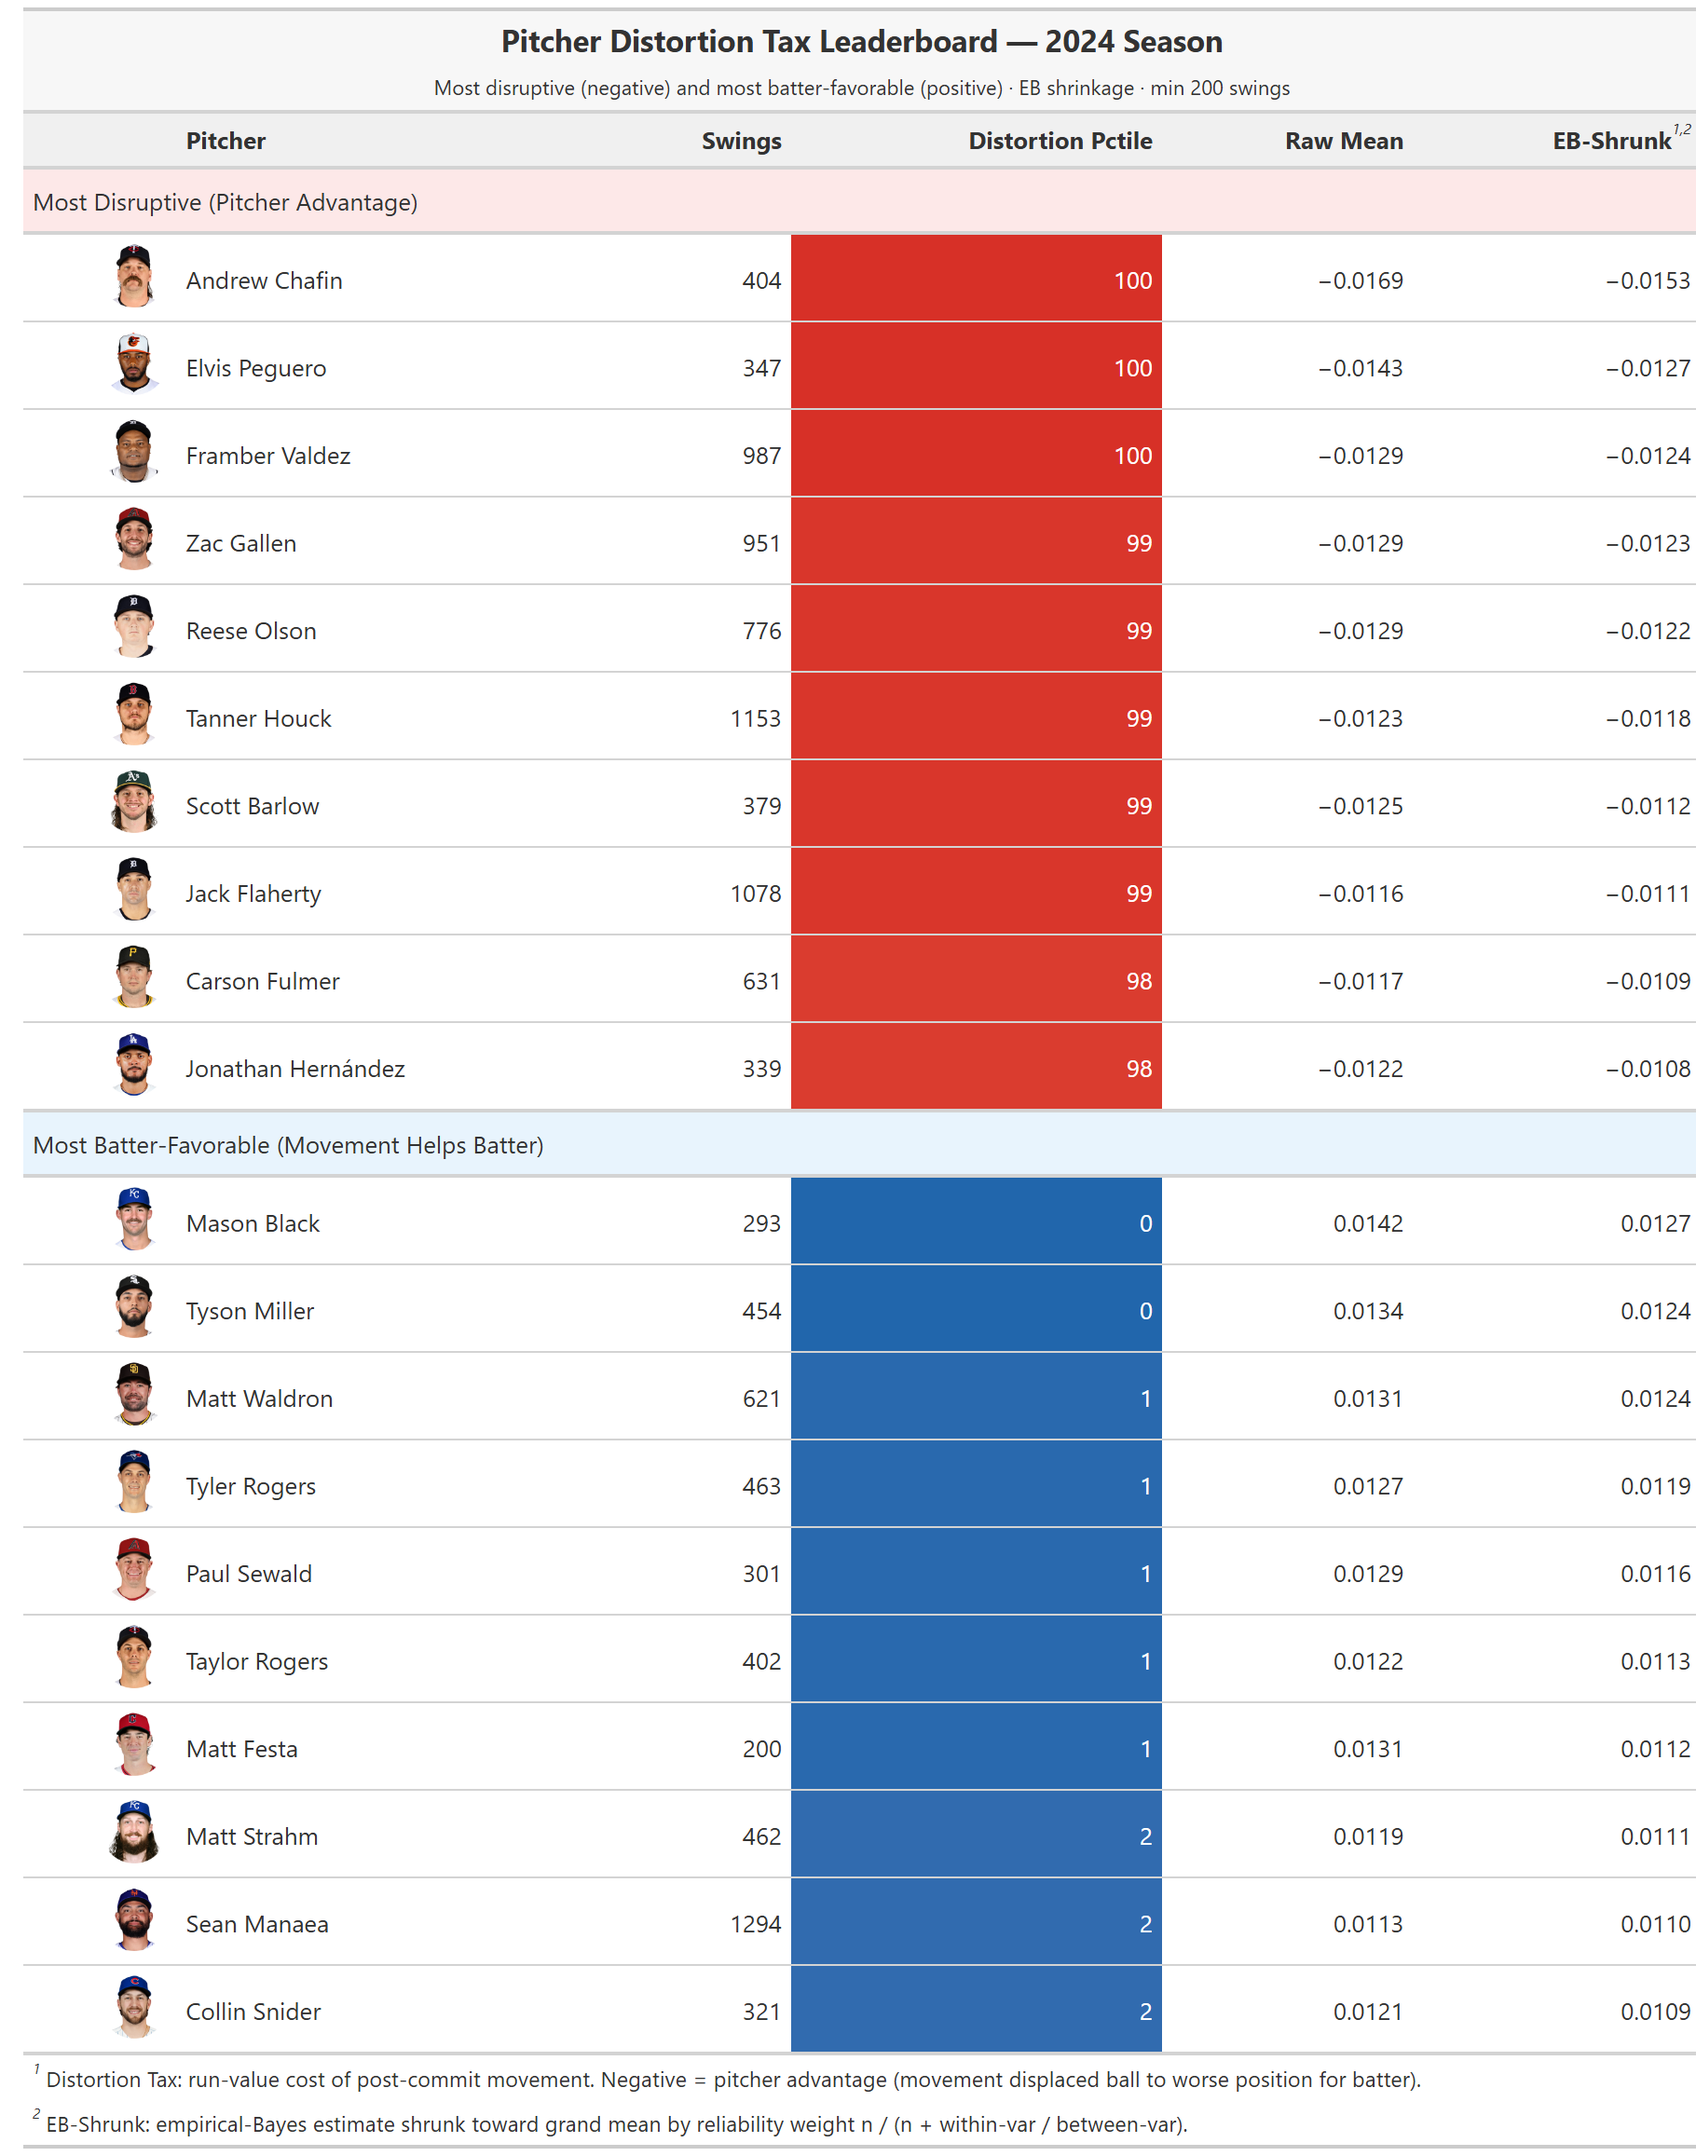
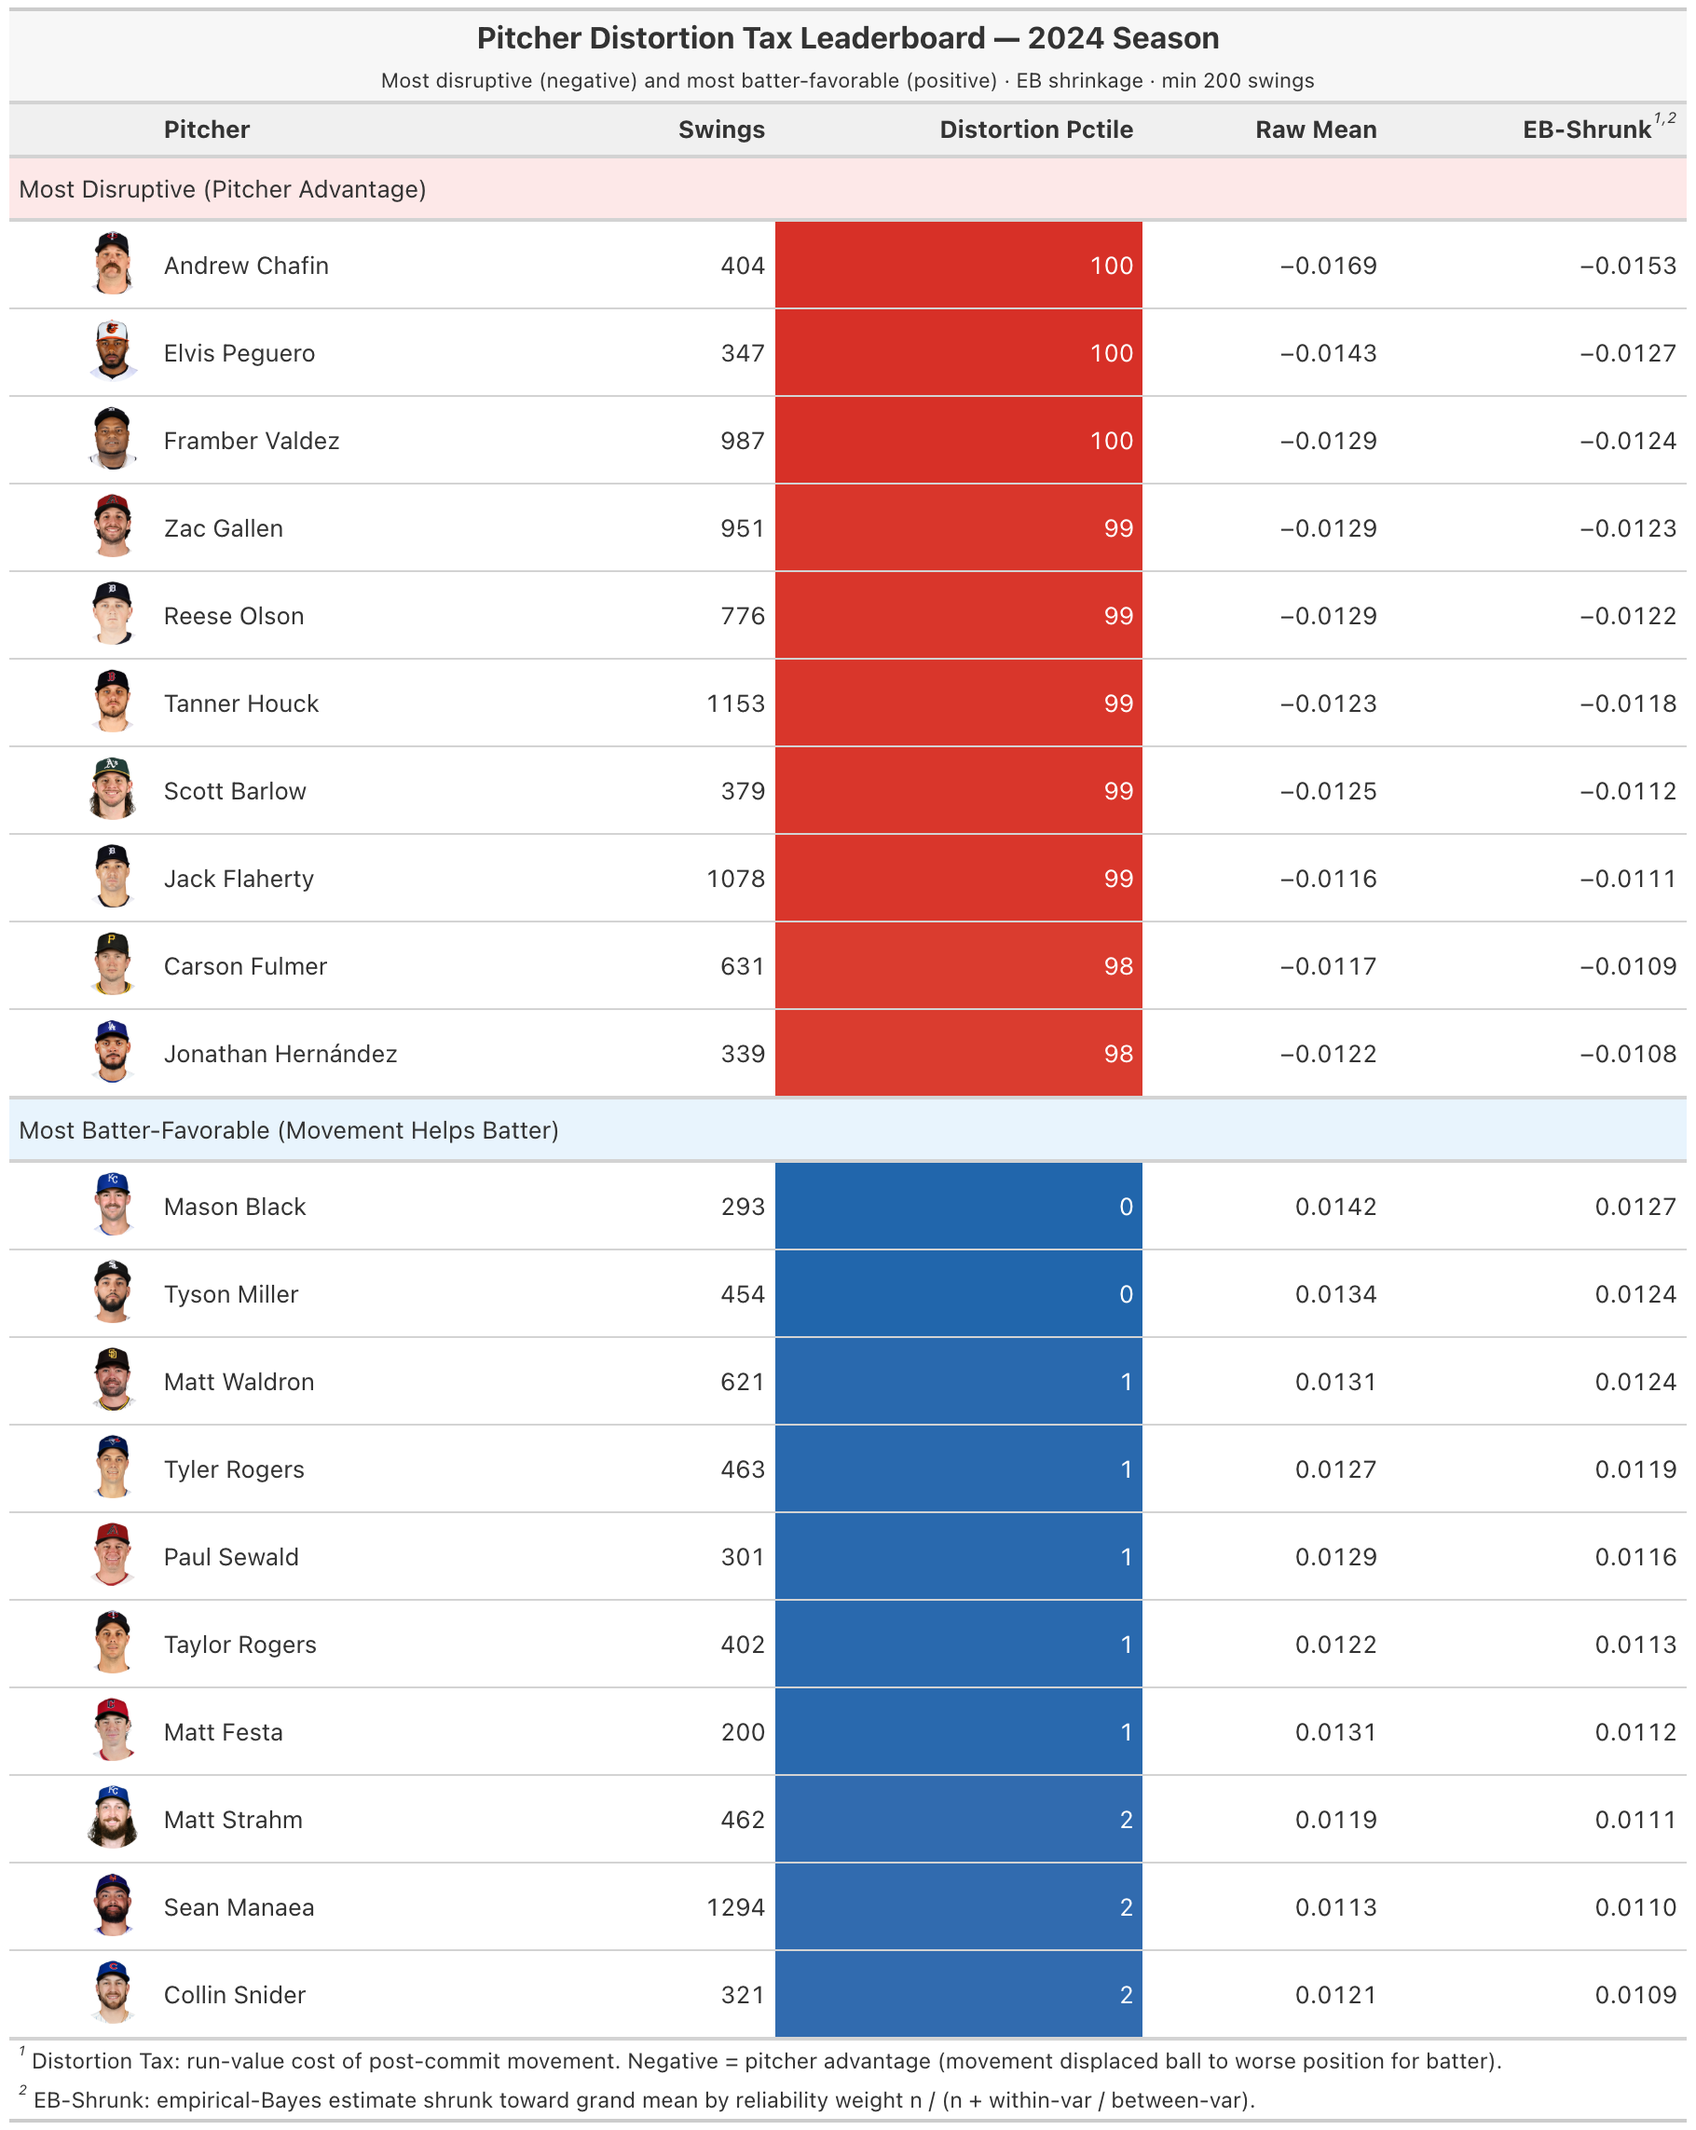
fix Mac paths in kinematic_diagram, switch generate_results to duckdb, update figures
- kinematic_diagram.py: Windows backslash → forward slash for screenshot paths
- generate_results.py: replace pd.read_parquet with column-selective duckdb queries
- refresh leaderboard and reliability figures + add reliability.csv

diff --git a/results_scripts/generate_results.py b/results_scripts/generate_results.py
@@ -25,6 +25,7 @@ Figure keys
 import sys
 from pathlib import Path
 
+import duckdb
 import joblib
 import numpy as np
 import pandas as pd
@@ -69,9 +70,28 @@ def _load(key, fn):
     return _cache[key]
 
 
-def xrv():  return _load("xrv",  lambda: pd.read_parquet("results/xrv_causal.parquet"))
-def pc():   return _load("pc",   lambda: pd.read_parquet("data/swings_precommit.parquet"))
-def sxrv(): return _load("sxrv", lambda: pd.read_parquet("results/swing_xrv.parquet"))
+_PC_COLS = ", ".join([
+    "game_pk", "at_bat_number", "pitch_number", "game_year",
+    DEV_X, DEV_Z, "ball_bat_miss", "is_whiff",
+    "is_contact", "is_bip", "is_single", "is_double", "is_triple", "is_home_run",
+    "is_swing", "bat_speed", "count_group", "balls", "strikes", "vert_attack_angle",
+    "pitcher_full_name", "pitch_type",
+    f"pc{COMMIT_MS}_R_x", f"pc{COMMIT_MS}_R_y", f"pc{COMMIT_MS}_R_z",
+    f"pc{COMMIT_MS}_V_x", f"pc{COMMIT_MS}_V_y", f"pc{COMMIT_MS}_V_z",
+    f"pc{COMMIT_MS}_A_x", f"pc{COMMIT_MS}_A_y", f"pc{COMMIT_MS}_A_z",
+    f"pc{COMMIT_MS}_t_plate",
+])
+
+_SXRV_COLS = ", ".join([
+    "game_pk", "at_bat_number", "pitch_number", "pitcher_id", "pitcher_full_name",
+    "pfx_x", "pfx_z", "release_speed", "release_extension", "arm_angle",
+    "ivb_transverse", "hb_transverse", "pitcher_throws", "stuff_grade", "xrv_vs_count", "xrv",
+])
+
+
+def xrv():  return _load("xrv",  lambda: duckdb.sql("SELECT * FROM read_parquet('results/xrv_causal.parquet')").df())
+def pc():   return _load("pc",   lambda: duckdb.sql(f"SELECT {_PC_COLS} FROM read_parquet('data/swings_precommit.parquet')").df())
+def sxrv(): return _load("sxrv", lambda: duckdb.sql(f"SELECT {_SXRV_COLS} FROM read_parquet('results/swing_xrv.parquet')").df())
 
 
 def merged():

diff --git a/results_scripts/kinematic_diagram.py b/results_scripts/kinematic_diagram.py
@@ -390,10 +390,10 @@ def make_broadcast_annotation(
 
 # ── Screenshot paths ──────────────────────────────────────────────────────────
 
-_YB_SCREENSHOT = r"screenshots for kin diagrams\Screenshot 2026-06-22 100819.png"
-_LR_SCREENSHOT = r"screenshots for kin diagrams\Screenshot 2026-06-23 102000.png"
-_HM_SCREENSHOT = r"screenshots for kin diagrams\Screenshot 2026-06-23 104858.png"
-_SH_SCREENSHOT = r"screenshots for kin diagrams\Screenshot 2026-06-23 105031.png"
+_YB_SCREENSHOT = "screenshots for kin diagrams/Screenshot 2026-06-22 100819.png"
+_LR_SCREENSHOT = "screenshots for kin diagrams/Screenshot 2026-06-23 102000.png"
+_HM_SCREENSHOT = "screenshots for kin diagrams/Screenshot 2026-06-23 104858.png"
+_SH_SCREENSHOT = "screenshots for kin diagrams/Screenshot 2026-06-23 105031.png"
 
 
 # ── Load metrics from data ────────────────────────────────────────────────────
